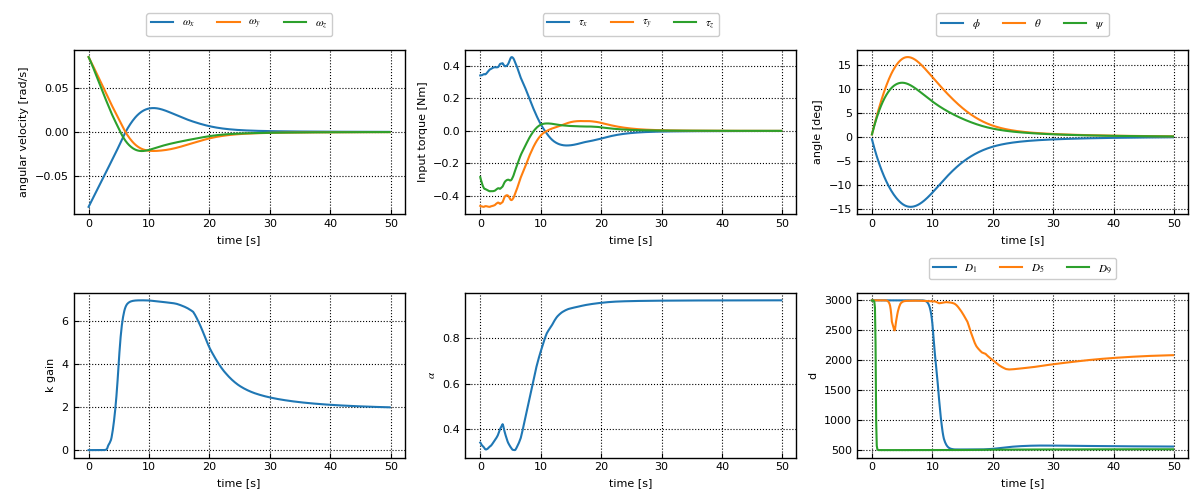
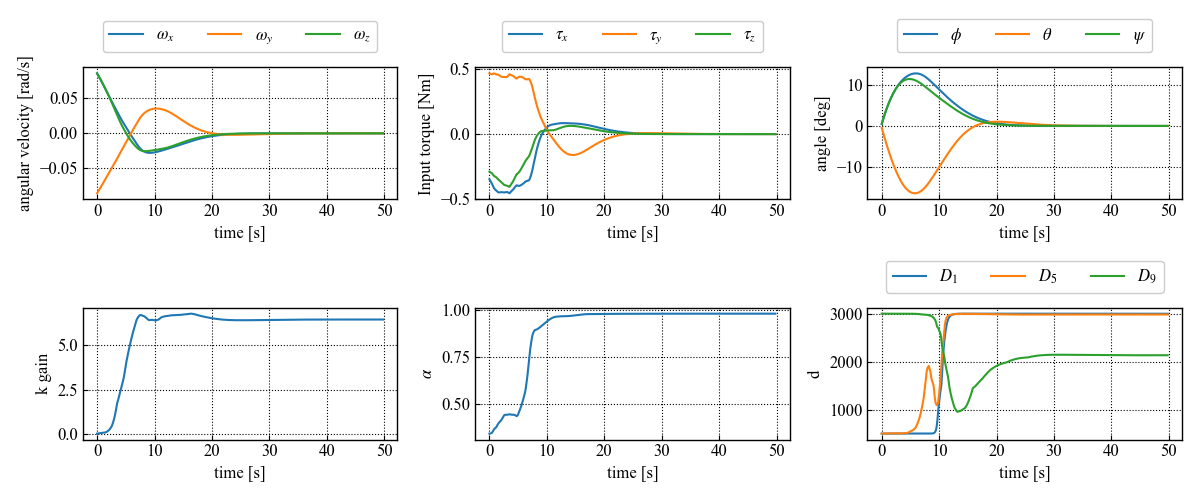
eval

diff --git a/td3/train.py b/td3/train.py
@@ -175,9 +175,9 @@ def evaluate():
     #-------------------plot settings------------------------------
     plt.rcParams['font.family'] = 'Times New Roman' # font familyの設定
     plt.rcParams['mathtext.fontset'] = 'stix' # math fontの設定
-    plt.rcParams["font.size"] = 8 # 全体のフォントサイズが変更されます。
-    plt.rcParams['xtick.labelsize'] = 8 # 軸だけ変更されます。
-    plt.rcParams['ytick.labelsize'] = 8 # 軸だけ変更されます 
+    plt.rcParams["font.size"] = 12# 全体のフォントサイズが変更されます。
+    plt.rcParams['xtick.labelsize'] = 12 # 軸だけ変更されます。
+    plt.rcParams['ytick.labelsize'] = 12 # 軸だけ変更されます 
     plt.rcParams['xtick.direction'] = 'in' # x axis in
     plt.rcParams['ytick.direction'] = 'in' # y axis in 
     plt.rcParams['axes.linewidth'] = 1.0 # axis line width
@@ -188,8 +188,8 @@ def evaluate():
     plt.rcParams["legend.facecolor"] = "white"  # 背景色
     # plt.rcParams["legend.edgecolor"] = "black"  # 囲いの色
     plt.rcParams["legend.fancybox"] = True     # Trueにすると囲いの四隅が丸くなる
-    tate = 4.0
-    yoko = 8.0
+    tate = 3.0
+    yoko = 5.0
     #------------------------------------------------
 
     # plt.figure(figsize=(yoko,tate),dpi=100)
@@ -310,7 +310,7 @@ def evaluate():
     plt.plot(np.arange(max_steps)*dt, r_hist[:,1],label = r"$\omega$ pnlty")
     plt.plot(np.arange(max_steps)*dt, r_hist[:,2],label = r"$\tau$ pnlty")
     plt.plot(np.arange(max_steps)*dt, r_hist[:,3],label = r"$\Delta\tau$ pnlty")
-    plt.plot(np.arange(max_steps)*dt, np.sum(r_hist,axis = 1),label = r"$R_{total}$",linestyle='dotted')
+    # plt.plot(np.arange(max_steps)*dt, np.sum(r_hist,axis = 1),label = r"$R_{total}$",linestyle='dotted')
     plt.plot(np.arange(max_steps)*dt, R,label = r"$total$")
     # plt.title('Action')
     plt.ylabel('reward')

diff --git a/td3/environment.py b/td3/environment.py
@@ -327,7 +327,7 @@ class SatelliteContinuousEnv(gym.Env):
         # self.startEuler = np.deg2rad(np.array([10,0,0]))
         self.startQuate = self.dcm2quaternion(self.euler2dcm(self.startEuler))
         # self.startOmega = np.array([0,0,0])
-        coef = 2*np.random.randint(0,2,size=3)-1
+        coef = 1#2*np.random.randint(0,2,size=3)-1
         self.startOmega = coef* np.deg2rad(np.array([5,-5,5]))#+ np.random.uniform(-1, 1, size=3))
 
         # 目標値(deg)
